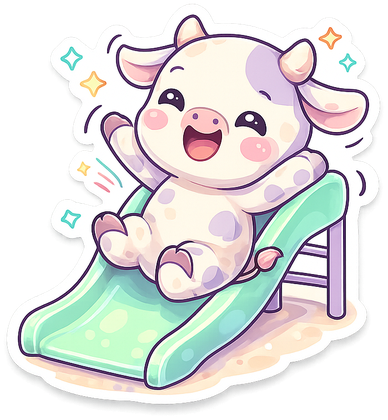
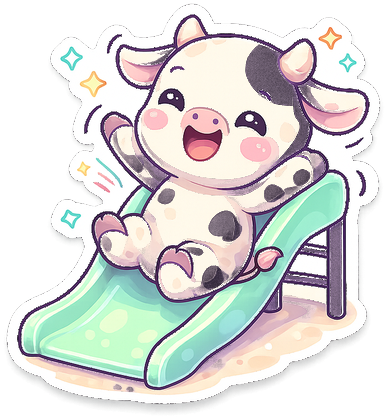
Fix visits showing another friend's sticker; black cow spots
- StickerBook: after a pet's own sticker and the general stickers were
  collected, a visit picked from all stickers at random, so the bird could
  show the piglet's sticker. A visit now shows its own sticker first, then
  the general ones, then its own again; never another friend's.
- Completion is now its own saved flag (PetSave.completed, set when a full
  visit finishes) instead of "owns the sticker", so a stray sticker can no
  longer count a friend as done. Save format v4 migrates older saves.
- Cow: spots recoloured from lavender-grey to soft black on the head, body
  and sticker (tools/recolor_cow_spots.py); feet, ears and nose unchanged.
- PlayTest.FullVisit runs a complete visit for any pet and reports the
  sticker shown.

Claude-Session: https://claude.ai/code/session_01HYgoxcRjbfG14tNFXF6i5x

diff --git a/OopsiePets/AgentScripts/PlayTest.cs b/OopsiePets/AgentScripts/PlayTest.cs
@@ -181,6 +181,7 @@ public static class PlayTest
         {
             var p = db.Pet(id.Trim());
             if (p && p.sticker && !SaveSystem.Data.stickers.Contains(p.sticker.id)) SaveSystem.Data.stickers.Add(p.sticker.id);
+            if (p) SaveSystem.Data.Pet(p.id).completed = true;
         }
         SaveSystem.Save();
         GameFlow.Instance.RefreshClubhouse();
@@ -205,6 +206,64 @@ public static class PlayTest
         b.onClick.Invoke();
         await Frames(1800);
         return State();
+    }
+
+    /// <summary>
+    /// One complete visit for a pet, the way the menu's big "play" button starts it: garden, every bath and
+    /// grooming step, dress-up, sticker, home. Screenshots go to <paramref name="shots"/> (prefix). Reports
+    /// each step and which sticker the reward showed.
+    /// </summary>
+    public static async Task<string> FullVisit(string id, string shots)
+    {
+        var f = GameFlow.Instance;
+        var def = f.database.Pet(id);
+        if (!f.database.IsPlayable(def)) return id + " is not playable: " + State();
+        var sb = new StringBuilder(id + ": ");
+        var before = new System.Collections.Generic.List<string>(SaveSystem.Data.stickers);
+        f.StartCare(def, CareSession.FullCare);
+        await Frames(2600);
+        string Kind() => f.care.Current ? f.care.Current.Kind.ToString() : "none";
+        void Shot(string name) => ScreenCapture.CaptureScreenshot($"{shots}_{id}_{name}.png");
+        for (int step = 0; step < 12 && f.Current == GameFlow.Screen.Care; step++)
+        {
+            var k = f.care.Current ? f.care.Current.Kind : (ActivityKind)(-1);
+            string r = k switch
+            {
+                ActivityKind.Outdoor => await PlayOutside(24),
+                ActivityKind.Shampoo => await Shampoo(10),
+                ActivityKind.Wash => await Scrub(12),
+                ActivityKind.Bubbles => await PopBubbles(16),
+                ActivityKind.Rinse => await Rinse(8),
+                ActivityKind.Dry => await DryOff(14),
+                ActivityKind.Brush => await BrushAll(12),
+                ActivityKind.Teeth => await BrushTeeth(10),
+                _ => "",
+            };
+            if (k == ActivityKind.Outdoor || k == ActivityKind.Teeth || k == ActivityKind.Rinse) Shot(k.ToString());
+            if (k == ActivityKind.DressUp)
+            {
+                await Frames(800);
+                Shot("DressUp");
+                var done = GameObject.Find("UI/CareUI/Safe/DressTray/DoneButton");
+                if (done) done.GetComponent<UnityEngine.UI.Button>().onClick.Invoke();
+                await Frames(4500);
+                var rp = f.care.reward;
+                string shown = rp.sticker && rp.sticker.sprite ? rp.sticker.sprite.name : "none";
+                Shot("Reward");
+                sb.Append($"DressUp ok | reward sticker={shown} own={(def.sticker ? def.sticker.sprite.name : "none")} ");
+                var home = GameObject.Find("UI/Reward/HomeButton");
+                if (home) home.GetComponent<UnityEngine.UI.Button>().onClick.Invoke();
+                await Frames(3500);
+                break;
+            }
+            bool ok = f.care.Current && f.care.Current.IsComplete;
+            sb.Append($"{k}{(ok ? "" : "(NOT COMPLETE)")} ");
+            if (!ok) return sb + " | stopped: " + State();
+            await Next();
+        }
+        var gained = SaveSystem.Data.stickers.Where(s => !before.Contains(s));
+        sb.Append($"| new stickers=[{string.Join(",", gained)}] completed={ContentDatabase.IsCompleted(def)} screen={f.Current}");
+        return sb.ToString();
     }
 
     public static string Lock(string id)

diff --git a/OopsiePets/ArtSource/tools/recolor_cow_spots.py b/OopsiePets/ArtSource/tools/recolor_cow_spots.py
@@ -1,0 +1,54 @@
+#!/usr/bin/env python3
+"""Make the cow's spots black (the image model drew them pale lavender-grey).
+
+Each pixel's "spottiness" is measured along the colour line from the cream fur to the lavender spot
+colour; pixels off that line (pink ears, nose, blush, the plum outline) are left alone, and so are the
+back feet and front hooves (masked by position). Spot pixels are darkened toward a soft warm black,
+keeping their shading and soft edges. Pixels that are already dark are off the line, so running the
+tool again only touches a few soft edge pixels. Run it once, after finalize_art.py / pad_to_4.py.
+
+Usage: python3 -I recolor_cow_spots.py <Assets/OopsiePets/Art> [out_preview.png]
+"""
+import sys
+import numpy as np
+from PIL import Image
+
+CREAM = np.array([255.0, 250.0, 242.0])
+SPOT = np.array([204.0, 192.0, 220.0])      # the lavender-grey the spots were drawn in
+BLACK = np.array([58.0, 50.0, 64.0])        # soft warm black (the outlines are dark plum)
+
+# sprite -> list of (cx, cy, rx, ry) ellipses in normalized sprite coords (origin top-left) to keep as is
+KEEP = {
+    "Characters/Cow/cow_body.png": [(0.15, 0.80, 0.16, 0.17), (0.84, 0.80, 0.16, 0.17), (0.5, 0.93, 0.3, 0.13)],
+    "Characters/Cow/cow_head.png": [],
+    "Characters/Cow/cow_tail.png": [],
+    "Stickers/sticker_cow_slide.png": [],
+}
+
+
+def recolor(path, keep):
+    im = np.array(Image.open(path).convert("RGBA")).astype(float)
+    rgb, a = im[..., :3], im[..., 3]
+    H, W = a.shape
+    d = SPOT - CREAM
+    v = rgb - CREAM
+    t = (v @ d) / (d @ d)                                   # 0 = cream, 1 = spot colour
+    resid = np.linalg.norm(v - t[..., None] * d, axis=-1)  # distance from the cream-to-spot line
+    w = np.clip((t - 0.15) / 0.6, 0, 1) * np.clip(1 - (resid - 6) / 16, 0, 1)
+    w[a < 10] = 0
+    yy, xx = np.mgrid[0:H, 0:W]
+    for cx, cy, rx, ry in keep:
+        w[((xx / W - cx) / rx) ** 2 + ((yy / H - cy) / ry) ** 2 <= 1] = 0
+    # Darken toward black but keep each pixel's shading relative to the spot colour.
+    shade = np.clip(rgb / SPOT, 0.7, 1.2)
+    target = np.clip(BLACK * shade, 0, 255)
+    out = rgb * (1 - w[..., None]) + target * w[..., None]
+    im[..., :3] = out
+    Image.fromarray(im.round().astype(np.uint8)).save(path, optimize=True)
+    return int((w > 0.5).sum())
+
+
+if __name__ == "__main__":
+    art = sys.argv[1]
+    for rel, keep in KEEP.items():
+        print(rel, "spot pixels darkened:", recolor(f"{art}/{rel}", keep))

diff --git a/OopsiePets/Assets/OopsiePets/Scripts/Progression/StickerBook.cs b/OopsiePets/Assets/OopsiePets/Scripts/Progression/StickerBook.cs
@@ -5,9 +5,10 @@ using UnityEngine;
 namespace OopsiePets
 {
     /// <summary>
-    /// Awards stickers after a full care session. A pet's own sticker comes first; after that the child
-    /// discovers the other stickers in random order; once everything is collected any sticker can come again.
-    /// No timers, streaks or scarcity.
+    /// Awards a sticker after a full care visit. The first time, it is always the pet's own sticker. After
+    /// that the child finds the general stickers (paw, rainbow, star, heart) in random order, and once those
+    /// are collected the pet's own sticker comes again. A visit never shows another friend's sticker (that
+    /// friend's sticker belongs to finishing that friend). No timers, streaks or scarcity.
     /// </summary>
     public static class StickerBook
     {
@@ -19,10 +20,9 @@ namespace OopsiePets
                 pick = pet.sticker;
             if (pick == null)
             {
-                var all = db.AllStickers().ToList();
-                var missing = all.Where(s => !data.stickers.Contains(s.id) && (s.pet == null || s.pet == pet)).ToList();
-                var pool = missing.Count > 0 ? missing : all;
-                if (pool.Count > 0) pick = pool[Random.Range(0, pool.Count)];
+                var missing = db.AllStickers().Where(s => s != null && s.pet == null && !data.stickers.Contains(s.id)).ToList();
+                if (missing.Count > 0) pick = missing[Random.Range(0, missing.Count)];
+                else pick = pet != null ? pet.sticker : null; // everything found: this friend's own sticker again
             }
             if (pick != null && !data.stickers.Contains(pick.id)) data.stickers.Add(pick.id);
             SaveSystem.Save();

diff --git a/OopsiePets/Assets/OopsiePets/Scripts/Core/ContentDatabase.cs b/OopsiePets/Assets/OopsiePets/Scripts/Core/ContentDatabase.cs
@@ -28,9 +28,27 @@ namespace OopsiePets
                 if (IsPlayable(pet)) yield return pet;
         }
 
-        /// <summary>A pet counts as completed once its own sticker has been earned (a full visit).</summary>
+        /// <summary>A pet counts as completed once a full visit with it has been finished.</summary>
         public static bool IsCompleted(PetDefinition pet) =>
-            pet != null && pet.sticker != null && SaveSystem.Data.stickers.Contains(pet.sticker.id);
+            pet != null && SaveSystem.Data.Pet(pet.id).completed;
+
+        /// <summary>
+        /// Saves before version 4 counted a pet as completed when its sticker was owned, but a repeat visit
+        /// could hand out another friend's sticker. Only pets that were really played through (their own
+        /// sticker, a care visit and dress-up done) count as completed; stickers are never taken away.
+        /// </summary>
+        public void MigrateCompletion(SaveData d)
+        {
+            if (d.loadedVersion >= 4) return;
+            foreach (var pet in AllPets())
+            {
+                var ps = d.Pet(pet.id);
+                if (pet.sticker != null && d.stickers.Contains(pet.sticker.id) && ps.careCount > 0
+                    && ps.completedActivities.Contains((int)ActivityKind.DressUp))
+                    ps.completed = true;
+            }
+            d.loadedVersion = SaveData.CurrentVersion;
+        }
 
         public bool IsPlayable(PetDefinition pet)
         {

diff --git a/OopsiePets/Assets/OopsiePets/Scripts/SaveSystem/SaveData.cs b/OopsiePets/Assets/OopsiePets/Scripts/SaveSystem/SaveData.cs
@@ -7,9 +7,11 @@ namespace OopsiePets
     [Serializable]
     public class SaveData
     {
-        public const int CurrentVersion = 3;
+        public const int CurrentVersion = 4;
 
         public int version = CurrentVersion;
+        /// <summary>The version the file had when it was loaded (before <see cref="Sanitize"/>), for migrations.</summary>
+        [NonSerialized] public int loadedVersion = CurrentVersion;
         public List<string> stickers = new List<string>();
         public List<string> unlockedPets = new List<string>();
         public List<PetSave> pets = new List<PetSave>();
@@ -38,6 +40,8 @@ namespace OopsiePets
             public bool outfitSet;
             [UnityEngine.Tooltip("Rainbow coat on (offered after the pet's first full visit).")]
             public bool rainbow;
+            [UnityEngine.Tooltip("A full visit with this pet has been finished (version 4+). Unlocks friends and the rainbow coat.")]
+            public bool completed;
         }
 
         public PetSave Pet(string id)
@@ -51,6 +55,7 @@ namespace OopsiePets
         /// <summary>Repairs anything missing after loading an older or partly broken file.</summary>
         public void Sanitize()
         {
+            loadedVersion = version;
             stickers ??= new List<string>();
             unlockedPets ??= new List<string>();
             celebrated ??= new List<string>();

diff --git a/OopsiePets/ArtSource/tools/make_assets_md.py b/OopsiePets/ArtSource/tools/make_assets_md.py
@@ -23,7 +23,8 @@ generated seat); `UI/lock_padlock`, `UI/lock_star_empty`, `UI/lock_star_full` (`
 Processing notes:
 - Model-drawn mouths on the "blank" heads were painted out (`tools/clean_faces.py`): puppy, bunny, lamb, pony.
 - The cow parts sheet clipped the left ear at the image edge; it was rebuilt by mirroring the right ear
-  (`tools/fix_clipped_ear.py`).
+  (`tools/fix_clipped_ear.py`). The cow's spots (parts and sticker) were drawn pale lavender-grey and
+  were darkened to black (`tools/recolor_cow_spots.py`).
 - The first unicorn parts sheet clipped the head at the image edge; the head was regenerated alone
   (`unicorn_head`) and the clipped piece discarded (`_unicorn_head_clipped`).
 - Sprites are padded to multiples of 4 px (`tools/pad_to_4.py`) so they can be GPU-compressed on the

diff --git a/OopsiePets/Assets/OopsiePets/Scripts/Activities/CareSession.cs b/OopsiePets/Assets/OopsiePets/Scripts/Activities/CareSession.cs
@@ -116,6 +116,9 @@ namespace OopsiePets
 
             if (full)
             {
+                // This friend is now completed (it may open a star lock, and offers the rainbow coat).
+                SaveSystem.Data.Pet(petDef.id).completed = true;
+                SaveSystem.Save();
                 // Sticker reward on the dress-up stage, with the pet wearing its outfit.
                 Stage(ActivityKind.DressUp, Get(ActivityKind.DressUp));
                 var sticker = StickerBook.Award(GameFlow.Instance.database, petDef);

diff --git a/OopsiePets/Assets/OopsiePets/Scripts/Core/GameFlow.cs b/OopsiePets/Assets/OopsiePets/Scripts/Core/GameFlow.cs
@@ -50,6 +50,8 @@ namespace OopsiePets
             Instance = this;
             Application.targetFrameRate = 60;
             SaveSystem.Load();
+            database.MigrateCompletion(SaveSystem.Data);
+            SaveSystem.Save();
             PetCoat.RainbowMaterial = rainbowMaterial;
 
             albumButton.onClick.AddListener(() => StartCoroutine(Go(Screen.Album, () => album.Refresh())));

diff --git a/OopsiePets/DEVLOG.md b/OopsiePets/DEVLOG.md
@@ -23,6 +23,21 @@ Menu **Oopsie Pets** in the Editor (or `unity command script eval` with the same
 4. `Oopsie Pets/3. Build Scene` — rewrites `Scenes/OopsiePets_Main.unity` and the build list.
 Step 3 overwrites the scene: make scene edits in `Editor/OopsieScene.cs`, or stop using the builder.
 
+## Fixes (2026-11-22): wrong sticker after a visit, black cow spots, full re-check
+- **A friend's visit showed another friend's sticker** (the bird/"owl" showed the piglet's). Every
+  pet's sticker asset was correct; the cause was `StickerBook.Award`: after the pet's own sticker and
+  all general stickers were collected, it picked from *all* stickers at random, other friends'
+  included. Worse, "completed" (which opens star locks and the rainbow coat) meant "owns that
+  friend's sticker", so a random sticker could count a friend as done without playing it. Now a visit
+  shows the pet's own sticker the first time, then the general stickers (paw, rainbow, star, heart),
+  then its own sticker again, never another friend's; and completion is its own saved flag,
+  `PetSave.completed`, set when a full visit with that pet finishes. Save format version 4: older
+  saves count a pet as completed only if it has its own sticker, a care visit and a finished
+  dress-up (stickers are never taken away).
+- **Cow spots** were pale lavender-grey; `tools/recolor_cow_spots.py` darkens them to a soft black
+  (head, body, tail tuft check, and the cow's sticker), leaving the feet, pink ears, nose, blush and
+  outline as drawn. Run once after `finalize_art.py`/`pad_to_4.py` if the cow is ever re-sliced.
+
 ## Star locks for friends earned by playing (2026-11-22)
 So nobody thinks a friend must be bought twice: in the **full version**, the friends that are earned
 by playing (giraffe, bird, cow, pony, then the unicorn) no longer show a padlock. They wear a big star

diff --git a/OopsiePets/ArtSource/ASSETS.md b/OopsiePets/ArtSource/ASSETS.md
@@ -91,7 +91,8 @@ generated seat); `UI/lock_padlock`, `UI/lock_star_empty`, `UI/lock_star_full` (`
 Processing notes:
 - Model-drawn mouths on the "blank" heads were painted out (`tools/clean_faces.py`): puppy, bunny, lamb, pony.
 - The cow parts sheet clipped the left ear at the image edge; it was rebuilt by mirroring the right ear
-  (`tools/fix_clipped_ear.py`).
+  (`tools/fix_clipped_ear.py`). The cow's spots (parts and sticker) were drawn pale lavender-grey and
+  were darkened to black (`tools/recolor_cow_spots.py`).
 - The first unicorn parts sheet clipped the head at the image edge; the head was regenerated alone
   (`unicorn_head`) and the clipped piece discarded (`_unicorn_head_clipped`).
 - Sprites are padded to multiples of 4 px (`tools/pad_to_4.py`) so they can be GPU-compressed on the
